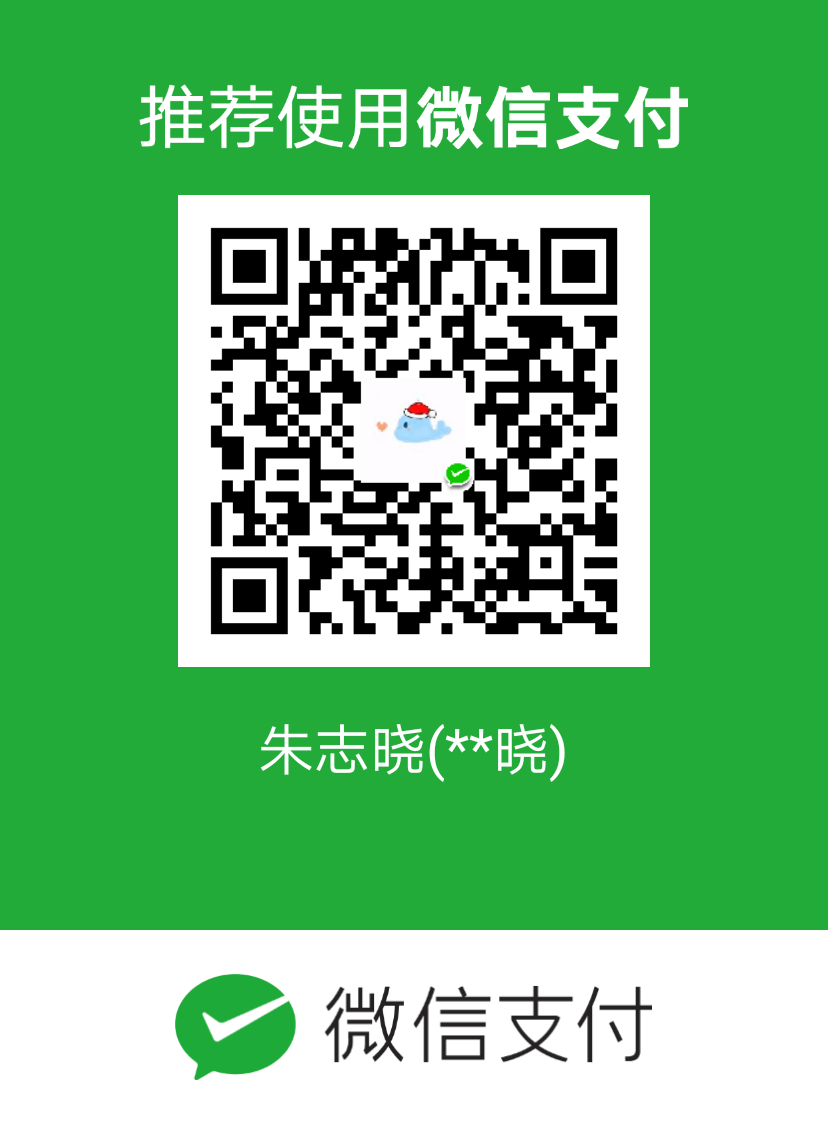
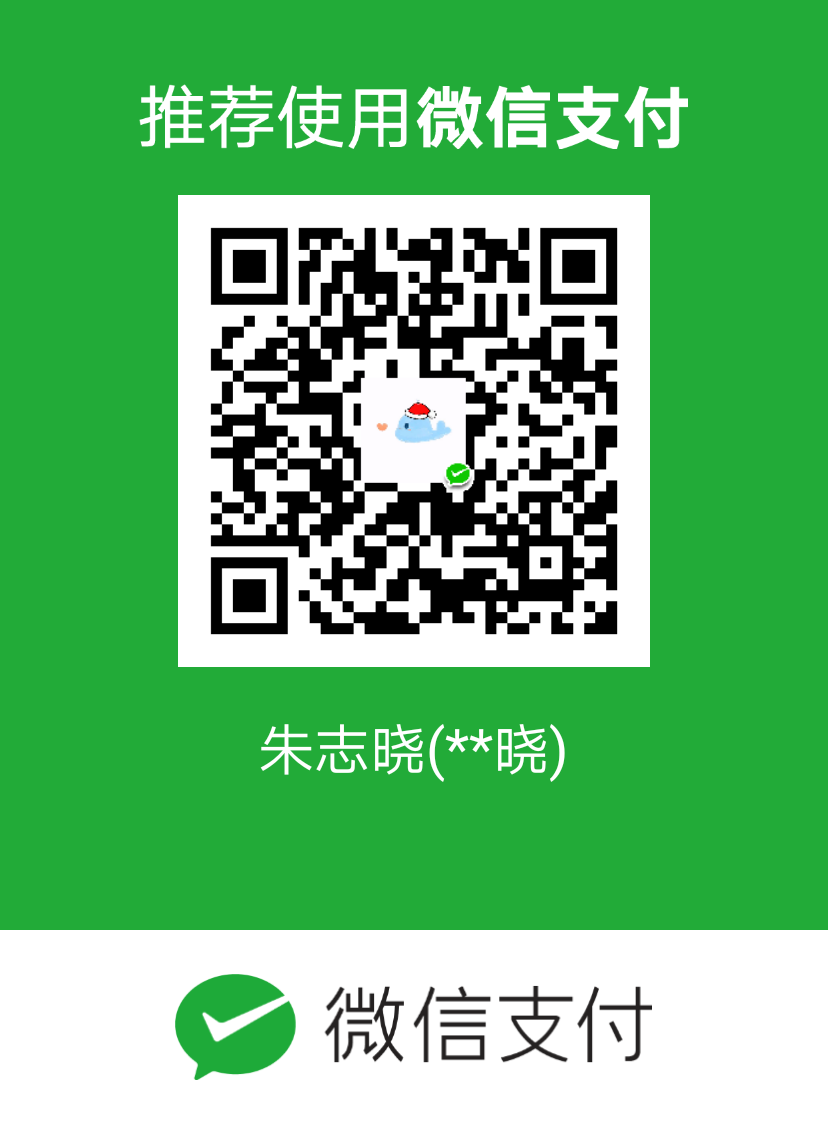
Site updated: 2018-05-07 16:40:23

Changed region(s): [[0.2415, 0.1849, 0.7548, 0.5854]]

diff --git a/2018/05/02/hello-world/index.html b/2018/05/02/hello-world/index.html
@@ -425,7 +425,7 @@
 
     
       <div id="wechat" style="display: inline-block">
-        <img id="wechat_qr" src="/images/wechatpay.jpg" alt="Zhixiao Zhu 微信支付"/>
+        <img id="wechat_qr" src="/images/wechat.jpg" alt="Zhixiao Zhu 微信支付"/>
         <p>微信支付</p>
       </div>
     

diff --git a/css/main.css b/css/main.css
@@ -1943,7 +1943,7 @@ pre .javascript .function {
   width: 4px;
   height: 4px;
   border-radius: 50%;
-  background: #ff7eff;
+  background: #5ff;
 }
 .links-of-blogroll {
   font-size: 13px;
